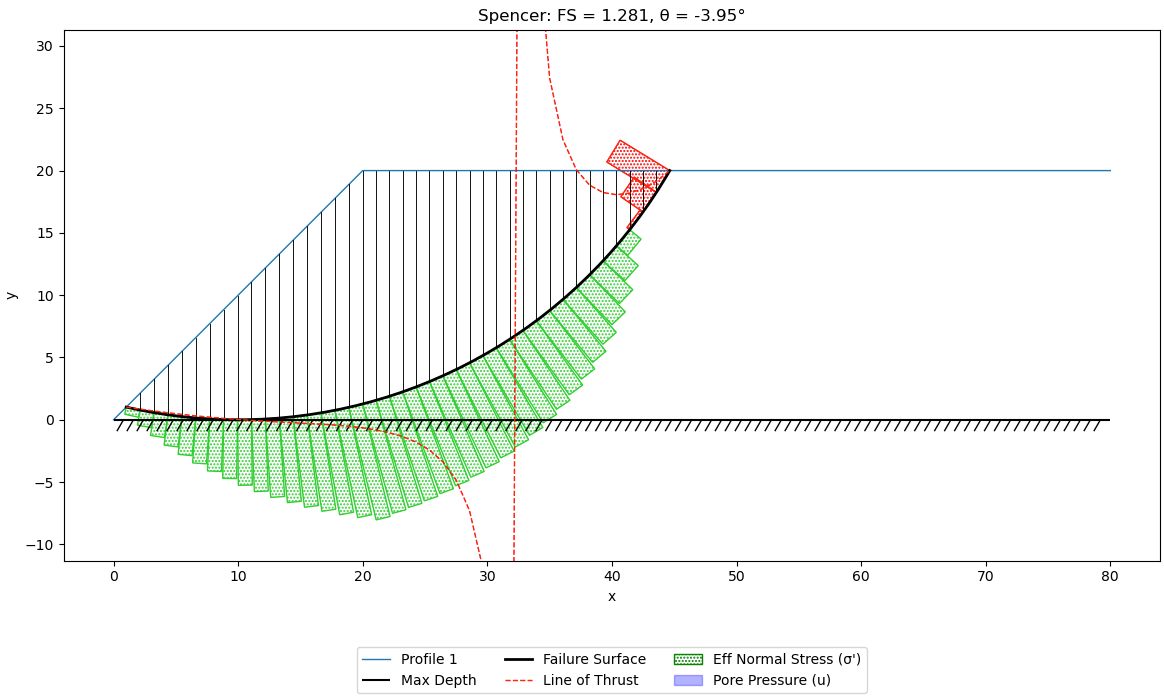
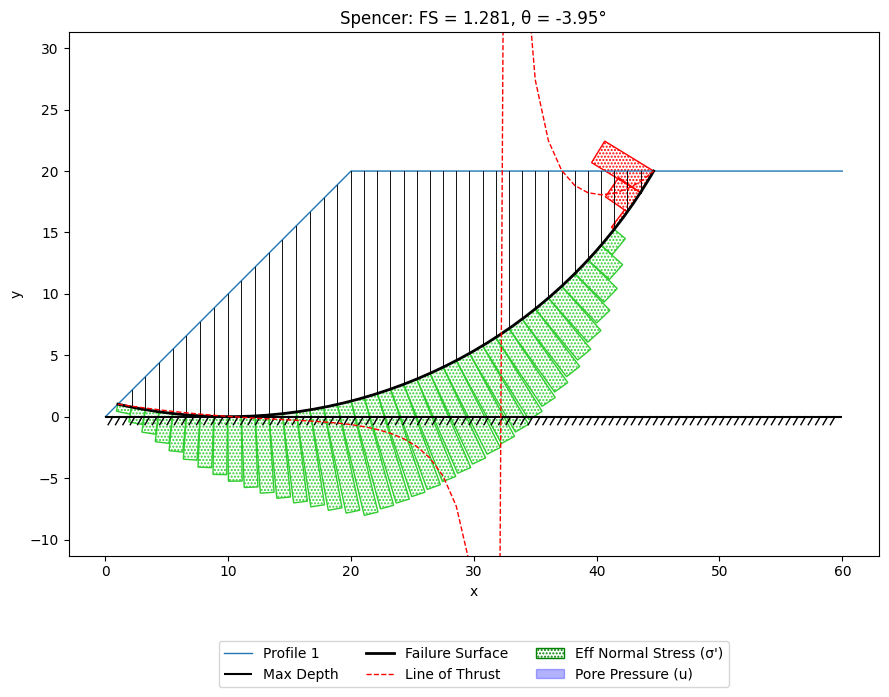
New pypi build

diff --git a/xslope/_version.py b/xslope/_version.py
@@ -1,4 +1,4 @@
 __all__ = ["__version__"]
-__version__ = "0.1.12"
+__version__ = "0.1.14"
 
 

diff --git a/docs/lem/samples.md b/docs/lem/samples.md
@@ -10,17 +10,28 @@ The notebook allows the user to select a variety of analysis options using simpl
 
 This problem features a simple slope with a single material. 
 
-![simple_embankment.png](sample_images/simple_embankment.png)
+![simple_embankment.png](sample_images/simple_embankment.png){width=800}
 
 Excel input file: [xslope_simple_embankment.xlsx](files/xslope_simple_embankment.xlsx)
 
 Inputs plotted with the XSLOPE plot_inputs() function:
 
-![simple_embankment_inputs.png](sample_images/simple_embankment_inputs.png)
+![simple_embankment_inputs.png](sample_images/simple_embankment_inputs.png){width=800}
+
+Solution:
+
+![simple_embankment_results1.png](sample_images/simple_embankment_results1.png){width=800}
 
 Here is copy of the input file with the following variations/changes:
 
 a) Distributed load on top of slope. q = 750 psf<br>
 b) Tension crack. Depth = 3 ft<br>
 c) Submerged by 10 ft depth of water (distributed load)
+
+Excel input file: [xslope_simple_embankment.xlsx](files/xslope_simple_embankment.xlsx)
+
+Inputs:
+
+
+Solution:
 
